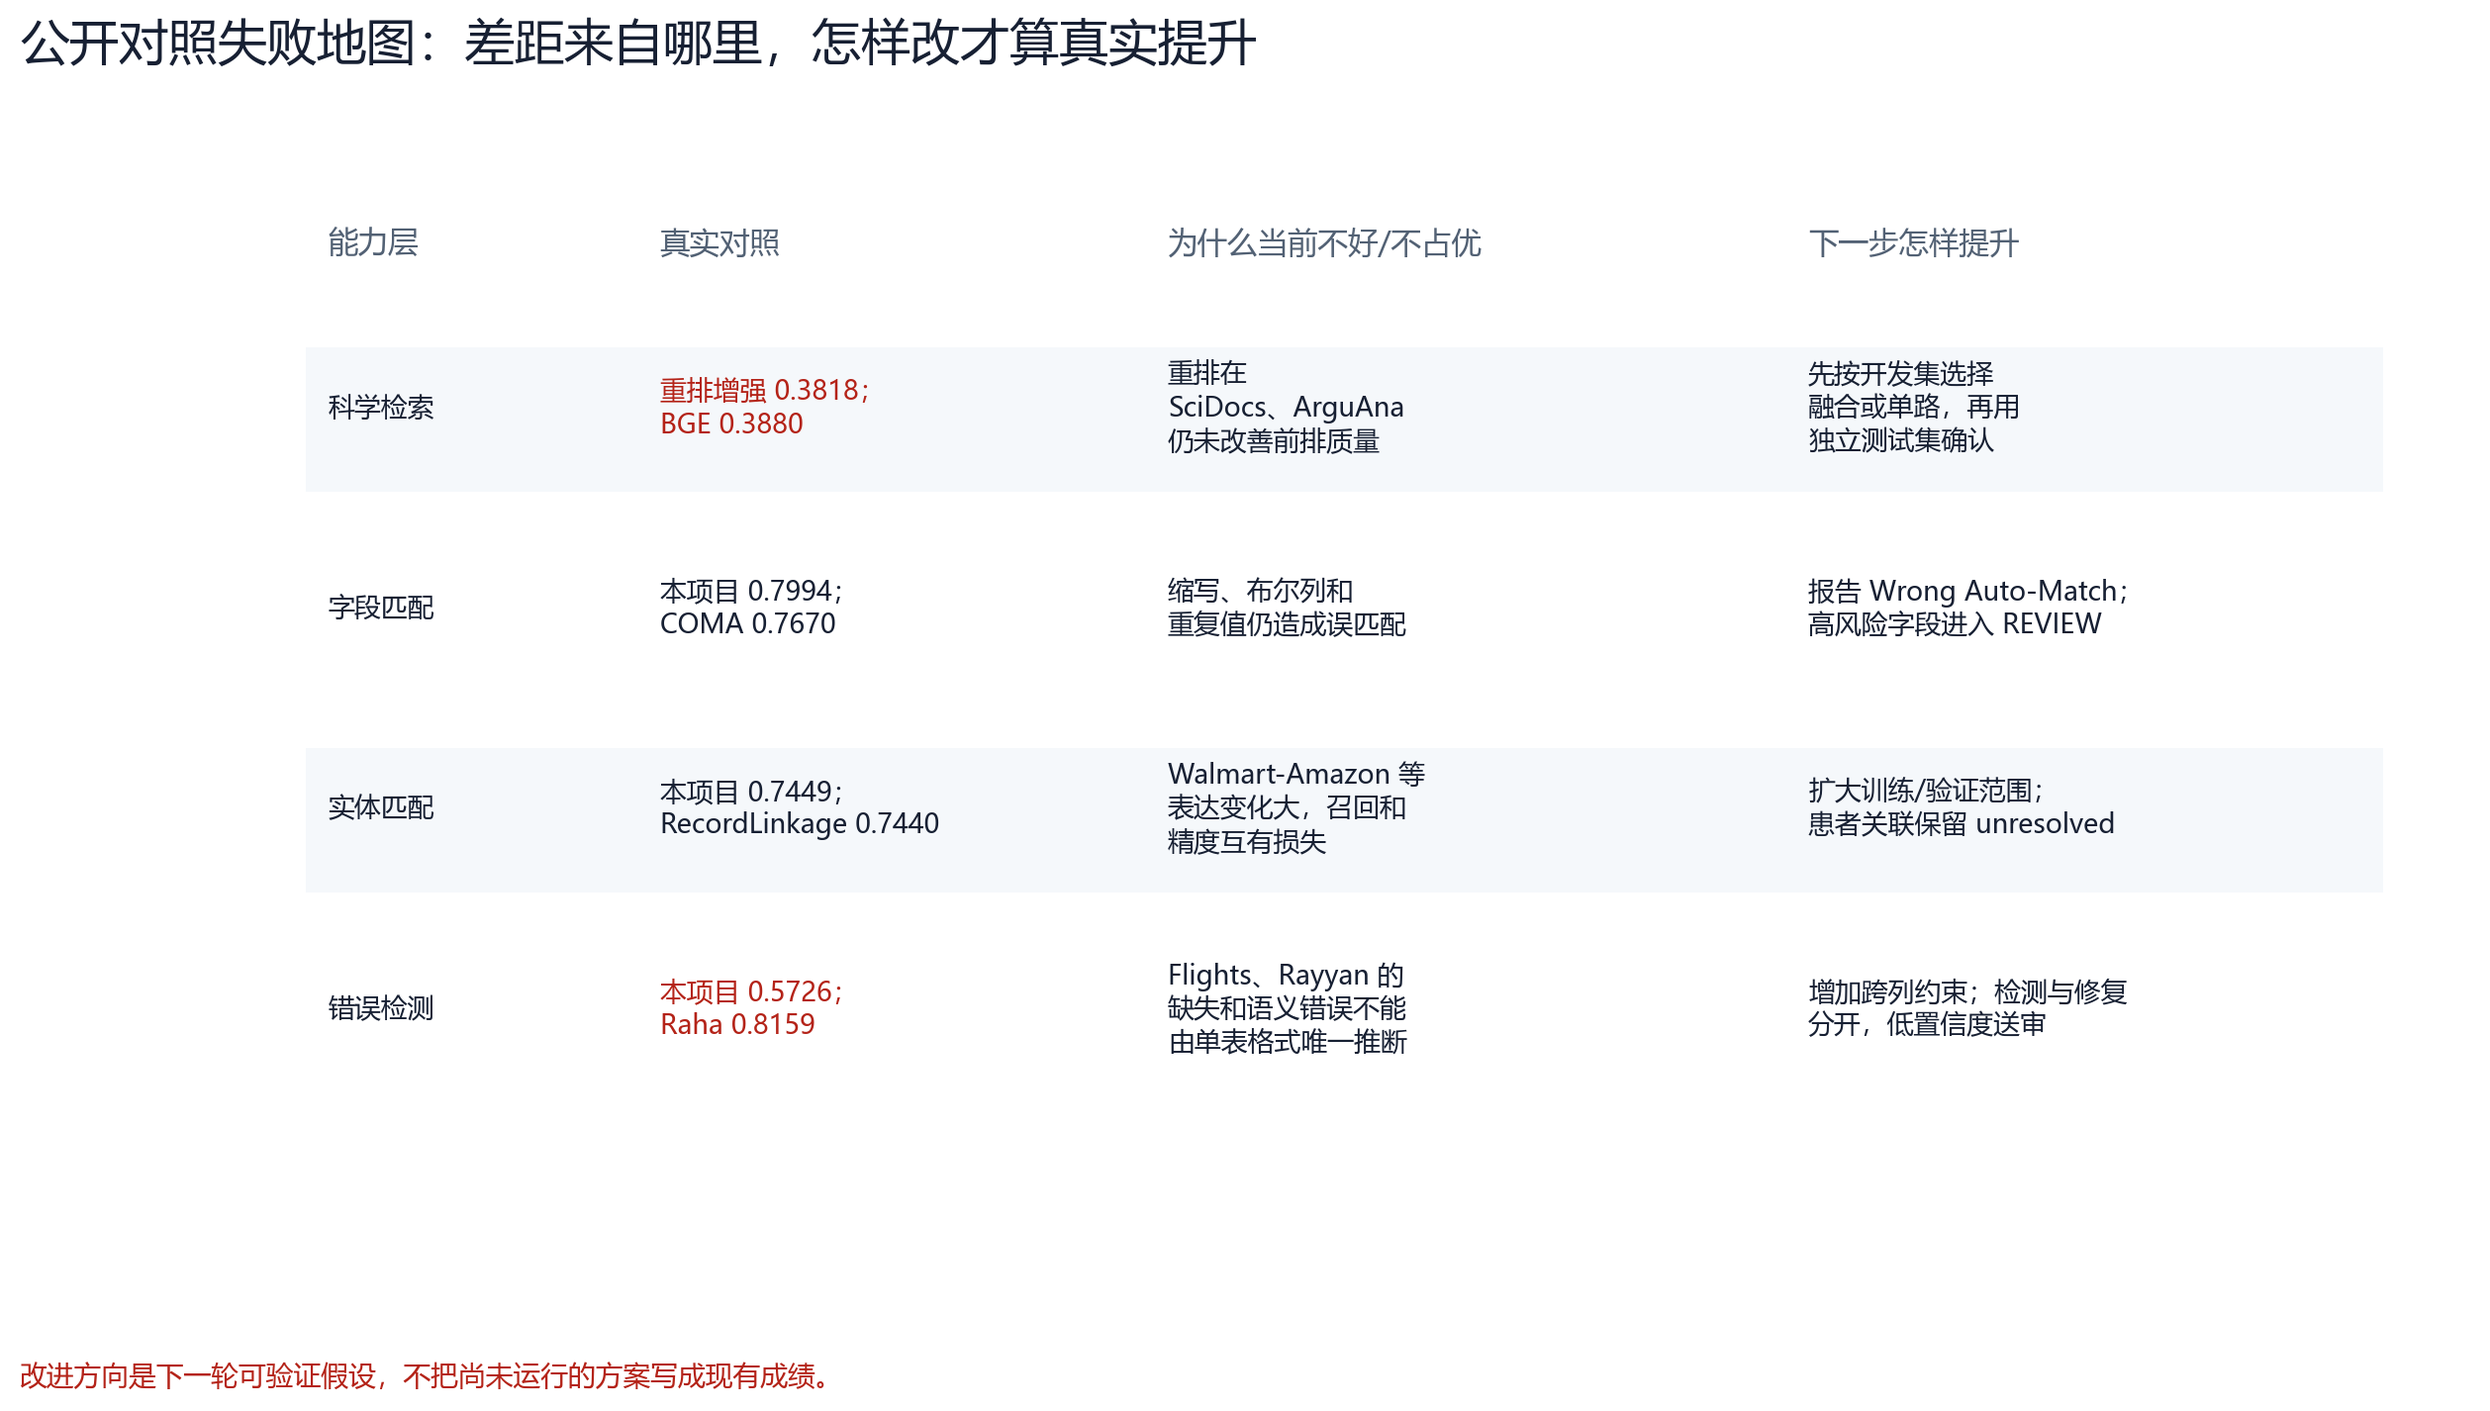
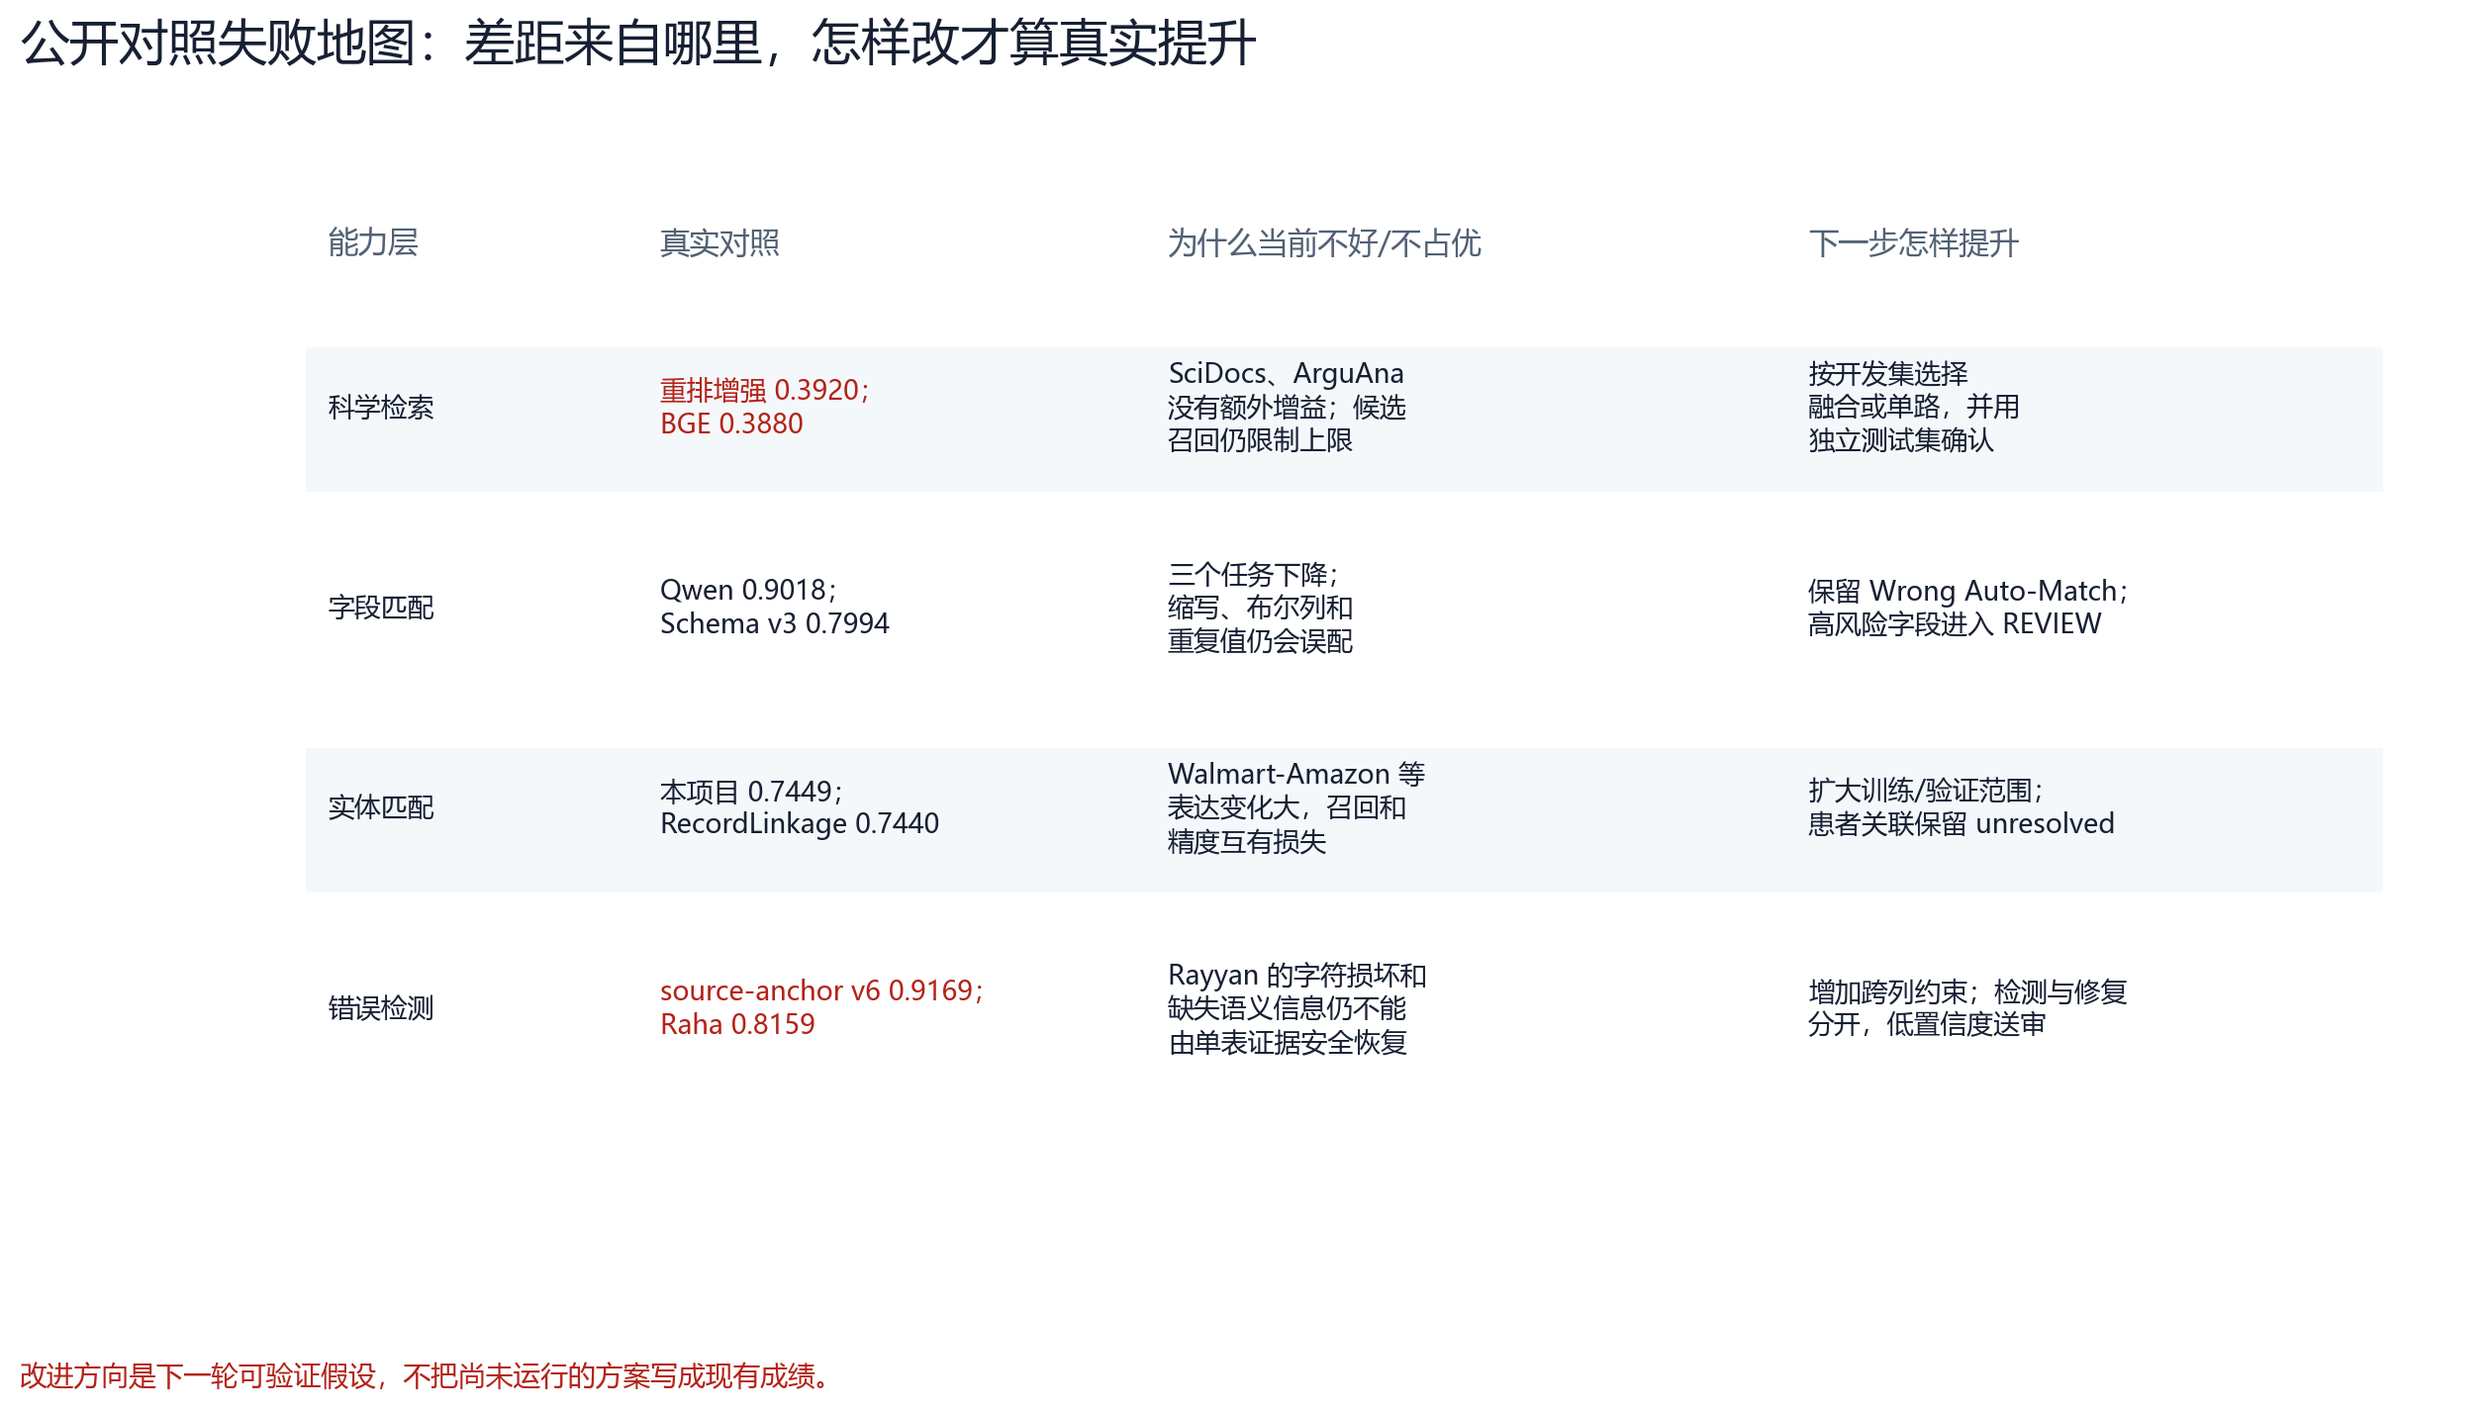
同步公开评测图表与最新成功结果

diff --git a/scripts/build_public_comparison_figures.py b/scripts/build_public_comparison_figures.py
@@ -13,6 +13,7 @@ from matplotlib.font_manager import FontProperties
 
 ROOT = Path(__file__).resolve().parents[1]
 RESULTS_PATH = ROOT / "evaluation" / "github_competitor_benchmark_20260830" / "results.json"
+PUBLIC_RESULTS_PATH = ROOT / "evaluation" / "PUBLIC_DATASET_COMPARISON_20260902.json"
 RUN_ROOT = ROOT / "evaluation" / "public_benchmarks" / "runs"
 IMAGE_DIR = ROOT / "docs" / "images"
 FONT_PATH = Path("C:/Windows/Fonts/msyh.ttc")
@@ -32,6 +33,49 @@ def load_results() -> dict:
     return json.loads(RESULTS_PATH.read_text(encoding="utf-8"))
 
 
+def load_latest_chart_results(results: dict) -> dict:
+    """Overlay completed Qwen and v6 runs onto the historical chart schema."""
+    chart_results = json.loads(json.dumps(results))
+    public_results = json.loads(PUBLIC_RESULTS_PATH.read_text(encoding="utf-8"))
+
+    qwen_schema = {}
+    for path in RUN_ROOT.glob("*_qwen_valentine_*/run.json"):
+        payload = json.loads(path.read_text(encoding="utf-8"))
+        dataset_id = payload.get("dataset", {}).get("dataset_id")
+        result = payload.get("results", {}).get("qwen_schema")
+        if dataset_id and result and payload.get("audit", {}).get("failed_calls", 1) == 0:
+            qwen_schema[dataset_id] = result["f1"]
+    for row in chart_results["modules"]["schema_matching"]["rows"]:
+        if row["dataset"] in qwen_schema:
+            row["project_f1"] = qwen_schema[row["dataset"]]
+            row["project_method"] = "Qwen-assisted"
+    chart_results["modules"]["schema_matching"]["project_macro"] = public_results["headline"]["schema_qwen_macro_f1"]
+
+    v6_cleaning = {}
+    for path in RUN_ROOT.glob("*_holoclean_*/run.json"):
+        candidates = [path]
+        candidates.extend(RUN_ROOT.glob(f"*_{path.parent.name.split('_', 1)[-1].replace('holoclean_', 'raha_')}*/run.json"))
+        for candidate in candidates:
+            payload = json.loads(candidate.read_text(encoding="utf-8"))
+            dataset_id = payload.get("dataset", {}).get("dataset_id")
+            result = payload.get("results", {}).get("project_source_anchor_repair_v6")
+            if dataset_id and result:
+                v6_cleaning[dataset_id] = result["cell_f1"]
+    for path in RUN_ROOT.glob("*_raha_*/run.json"):
+        payload = json.loads(path.read_text(encoding="utf-8"))
+        dataset_id = payload.get("dataset", {}).get("dataset_id")
+        result = payload.get("results", {}).get("project_source_anchor_repair_v6")
+        if dataset_id and result:
+            v6_cleaning[dataset_id] = result["cell_f1"]
+    for row in chart_results["modules"]["cleaning"]["rows"]:
+        if row["dataset"] in v6_cleaning:
+            row["project_f1"] = v6_cleaning[row["dataset"]]
+            row["project_exact_repair_f1"] = v6_cleaning[row["dataset"]]
+            row["project_method"] = "Project source-anchor v6"
+    chart_results["modules"]["cleaning"]["project_macro"] = public_results["headline"]["cleaning_v6_macro_cell_f1"]
+    return chart_results
+
+
 def load_enhanced_retrieval(results: dict) -> dict | None:
     dataset_ids = ["beir_scifact", "beir_nfcorpus", "beir_scidocs", "beir_arguana", "beir_fiqa"]
     rows = []
@@ -39,13 +83,21 @@ def load_enhanced_retrieval(results: dict) -> dict | None:
         candidates = []
         for path in RUN_ROOT.glob(f"*_{dataset_id}/run.json"):
             payload = json.loads(path.read_text(encoding="utf-8"))
-            if "vnext_bm25_bge_cross_encoder_v1" in payload.get("results", {}):
-                candidates.append((payload.get("created_at", ""), path, payload))
+            project_key = next(
+                (
+                    key
+                    for key in ("vnext_dev_selected_retrieval_v1", "vnext_bm25_bge_cross_encoder_v1")
+                    if key in payload.get("results", {})
+                ),
+                None,
+            )
+            if project_key:
+                candidates.append((payload.get("created_at", ""), path, payload, project_key))
         if not candidates:
             return None
-        _, path, payload = max(candidates, key=lambda item: item[0])
+        _, path, payload, project_key = max(candidates, key=lambda item: item[0])
         current = payload["results"]
-        project = current["vnext_bm25_bge_cross_encoder_v1"]
+        project = current[project_key]
         bge = current["vnext_bge_small_en_v1_5"]
         rows.append({
             "dataset": dataset_id,
@@ -164,8 +216,8 @@ def save_scorecard(results: dict, enhanced_retrieval: dict | None) -> Path:
     ax.legend(loc="lower center", bbox_to_anchor=(0.5, -0.25), ncol=2, frameon=False, prop=FONT)
     fig.suptitle("公开能力对照总览：每一行回答一个独立问题", x=0.08, y=0.96, ha="left", fontsize=18, fontweight="bold", color=TEXT, fontproperties=FONT)
     fig.text(0.08, 0.895, "同一公开数据、同一测试划分、同一指标；蓝色领先的行才表示本项目在该模块宏平均更高。", ha="left", fontsize=10.5, color=MUTED, fontproperties=FONT)
-    fig.text(0.08, 0.055, "结果：字段匹配、实体匹配略占优；检索接近但略低；错误检测明显落后，不能用一个总分掩盖短板。", ha="left", fontsize=10.2, color=RED, fontweight="bold", fontproperties=FONT)
-    fig.text(0.92, 0.025, "来源：历史结果 results.json；增强结果 enhanced_retrieval_20260902.json", ha="right", fontsize=8.5, color=MUTED, fontproperties=FONT)
+    fig.text(0.08, 0.055, "结果：Qwen 字段匹配与 source-anchor v6 清洗领先；检索小幅领先；实体匹配宏平均基本持平。", ha="left", fontsize=10.2, color=RED, fontweight="bold", fontproperties=FONT)
+    fig.text(0.92, 0.025, "来源：PUBLIC_DATASET_COMPARISON_20260902.json；成功运行证据", ha="right", fontsize=8.5, color=MUTED, fontproperties=FONT)
     fig.subplots_adjust(left=0.14, right=0.96, top=0.80, bottom=0.22)
     path = IMAGE_DIR / "public-comparison-scorecard-20260902.png"
     fig.savefig(path, dpi=200, bbox_inches="tight", facecolor="white")
@@ -189,13 +241,13 @@ def save_dataset_chart(results: dict, module: str, filename: str, title: str, su
         if index not in valid:
             ax.text(0.015, index + height / 2, "未评测", va="center", ha="left", fontsize=9, color=MUTED, fontproperties=FONT)
         elif abs(project[index] - external[index]) < 0.001:
-            ax.text(1.01, index, "相同", va="center", ha="left", fontsize=8.5, color=MUTED, fontproperties=FONT)
+            ax.text(1.075, index, "相同", va="center", ha="left", fontsize=8.5, color=MUTED, fontproperties=FONT)
         else:
             winner = "本项目" if project[index] > external[index] else "公开对照"
-            ax.text(1.01, index, winner, va="center", ha="left", fontsize=8.5, color=TEAL if winner == "本项目" else ORANGE, fontweight="bold", fontproperties=FONT)
+            ax.text(1.075, index, winner, va="center", ha="left", fontsize=8.5, color=TEAL if winner == "本项目" else ORANGE, fontweight="bold", fontproperties=FONT)
     ax.set_yticks(y, labels, fontproperties=FONT, fontsize=10)
     ax.invert_yaxis()
-    ax.set_xlim(0, 1.12)
+    ax.set_xlim(0, 1.18)
     ax.set_xticks(np.arange(0, 1.01, 0.2))
     ax.set_xlabel("F1 或 nDCG@10（越高越好）", fontproperties=FONT, fontsize=10.5)
     style_axis(ax)
@@ -230,10 +282,10 @@ def save_retrieval_chart(enhanced_retrieval: dict | None) -> Path:
         else:
             result = "本项目" if left > right else "公开对照"
             color = TEAL if result == "本项目" else ORANGE
-        ax.text(1.01, index, result, va="center", ha="left", fontsize=9, color=color, fontweight="bold", fontproperties=FONT)
+        ax.text(1.075, index, result, va="center", ha="left", fontsize=9, color=color, fontweight="bold", fontproperties=FONT)
     ax.set_yticks(y, labels, fontproperties=FONT, fontsize=10.5)
     ax.invert_yaxis()
-    ax.set_xlim(0, 1.12)
+    ax.set_xlim(0, 1.18)
     ax.set_xticks(np.arange(0, 1.01, 0.2))
     ax.set_xlabel("nDCG@10（越高越好）", fontproperties=FONT, fontsize=10.5)
     style_axis(ax)
@@ -250,10 +302,10 @@ def save_retrieval_chart(enhanced_retrieval: dict | None) -> Path:
 
 def save_failure_map() -> Path:
     rows = [
-        ("科学检索", "重排增强 0.3818；\nBGE 0.3880", "重排在\nSciDocs、ArguAna\n仍未改善前排质量", "先按开发集选择\n融合或单路，再用\n独立测试集确认"),
-        ("字段匹配", "本项目 0.7994；\nCOMA 0.7670", "缩写、布尔列和\n重复值仍造成误匹配", "报告 Wrong Auto-Match；\n高风险字段进入 REVIEW"),
+        ("科学检索", "重排增强 0.3920；\nBGE 0.3880", "SciDocs、ArguAna\n没有额外增益；候选\n召回仍限制上限", "按开发集选择\n融合或单路，并用\n独立测试集确认"),
+        ("字段匹配", "Qwen 0.9018；\nSchema v3 0.7994", "三个任务下降；\n缩写、布尔列和\n重复值仍会误配", "保留 Wrong Auto-Match；\n高风险字段进入 REVIEW"),
         ("实体匹配", "本项目 0.7449；\nRecordLinkage 0.7440", "Walmart-Amazon 等\n表达变化大，召回和\n精度互有损失", "扩大训练/验证范围；\n患者关联保留 unresolved"),
-        ("错误检测", "本项目 0.5726；\nRaha 0.8159", "Flights、Rayyan 的\n缺失和语义错误不能\n由单表格式唯一推断", "增加跨列约束；检测与修复\n分开，低置信度送审"),
+        ("错误检测", "source-anchor v6 0.9169；\nRaha 0.8159", "Rayyan 的字符损坏和\n缺失语义信息仍不能\n由单表证据安全恢复", "增加跨列约束；检测与修复\n分开，低置信度送审"),
     ]
     fig, ax = plt.subplots(figsize=(14.4, 7.3), facecolor="white")
     ax.axis("off")
@@ -310,14 +362,15 @@ def main() -> None:
     IMAGE_DIR.mkdir(parents=True, exist_ok=True)
     plt.rcParams["axes.unicode_minus"] = False
     results = load_results()
+    chart_results = load_latest_chart_results(results)
     enhanced_retrieval = load_enhanced_retrieval(results)
     summary_path = save_enhanced_retrieval_summary(results, enhanced_retrieval)
     paths = [
-        save_scorecard(results, enhanced_retrieval),
+        save_scorecard(chart_results, enhanced_retrieval),
         save_retrieval_chart(enhanced_retrieval),
-        save_dataset_chart(results, "schema_matching", "public-schema-datasets-20260902.png", "PB-02 字段匹配：十个公开任务逐题对照", "同一 Valentine ground truth；公开对照固定为 COMA，其他公开算法保留在机器可读结果中。", "本项目 V3", "Valentine COMA", "project_f1", "github_f1", ["Capital Projects", "DCM Street Centerline", "DPR Athletic Facilities", "DSNY Disposal Assignments", "Education COVID Meals", "Energy Benchmarking", "Housing Maintenance", "Public Art Inventory", "Street Resurfacing", "Swim for Life"], digits=3, height=0.22),
-        save_dataset_chart(results, "entity_matching", "public-entity-datasets-20260902.png", "PB-03 实体匹配：五个公开任务逐题对照", "同一 DeepMatcher 官方测试划分；公开对照用 RecordLinkage 的 Jaro-Winkler + logistic。", "本项目自适应融合", "RecordLinkage", "project_f1", "github_f1", ["Amazon-Google", "Beer-RateBeer", "DBLP-ACM", "Fodors-Zagats", "Walmart-Amazon"], digits=3),
-        save_dataset_chart(results, "cleaning", "public-cleaning-datasets-20260902.png", "PB-04 错误检测：六个公开任务逐题对照", "同一 dirty/clean 表；主指标是错误单元检测 F1，Tax 因公开对照未运行而不进入双方宏平均。", "本项目融合", "Raha PVD+RVD", "project_f1", "github_f1", ["Hospital", "Beers", "Flights", "Movies-1", "Rayyan", "Tax"], digits=3),
+        save_dataset_chart(chart_results, "schema_matching", "public-schema-datasets-20260902.png", "PB-02 字段匹配：十个公开任务逐题对照", "同一 Valentine ground truth；Qwen 只看到表头和值概况，不读取测试标签。", "Qwen-assisted", "Valentine COMA", "project_f1", "github_f1", ["Capital Projects", "DCM Street Centerline", "DPR Athletic Facilities", "DSNY Disposal Assignments", "Education COVID Meals", "Energy Benchmarking", "Housing Maintenance", "Public Art Inventory", "Street Resurfacing", "Swim for Life"], digits=3, height=0.22),
+        save_dataset_chart(chart_results, "entity_matching", "public-entity-datasets-20260902.png", "PB-03 实体匹配：五个公开任务逐题对照", "同一 DeepMatcher 官方测试划分；公开对照用 RecordLinkage 的 Jaro-Winkler + logistic。", "本项目自适应融合", "RecordLinkage", "project_f1", "github_f1", ["Amazon-Google", "Beer-RateBeer", "DBLP-ACM", "Fodors-Zagats", "Walmart-Amazon"], digits=3),
+        save_dataset_chart(chart_results, "cleaning", "public-cleaning-datasets-20260902.png", "PB-04 错误检测：六个公开任务逐题对照", "同一 dirty/clean 表；主指标是错误单元检测 F1，Tax 因公开对照未运行而不进入双方宏平均。", "Project source-anchor v6", "Raha PVD+RVD", "project_f1", "github_f1", ["Hospital", "Beers", "Flights", "Movies-1", "Rayyan", "Tax"], digits=3),
         save_failure_map(),
         save_question_map(),
     ]
